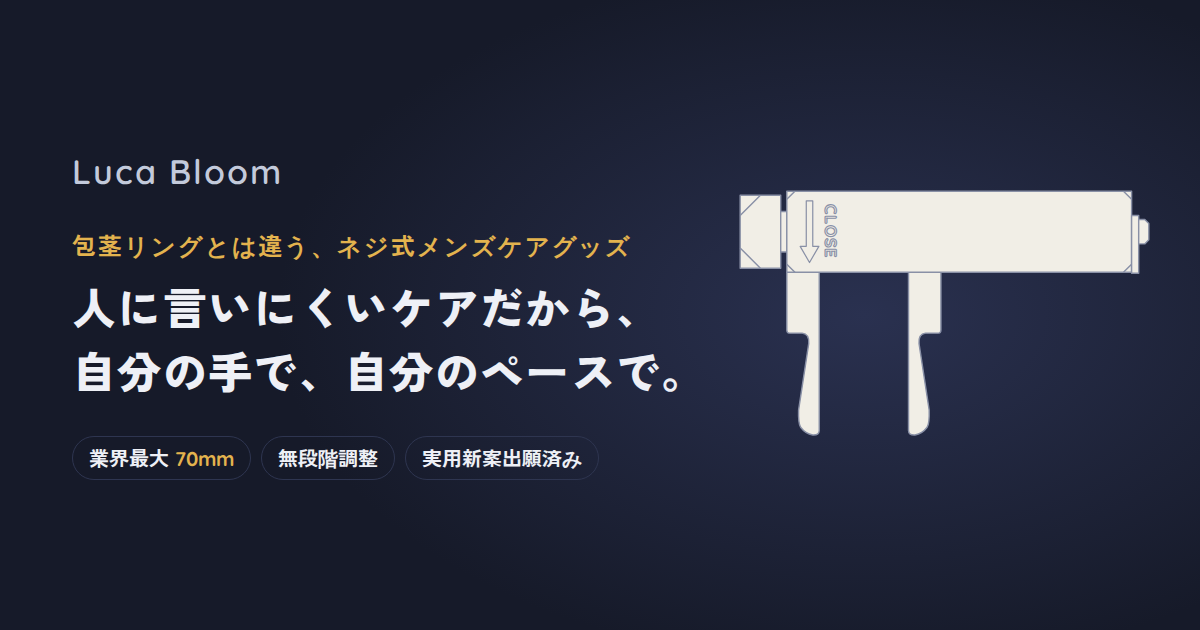
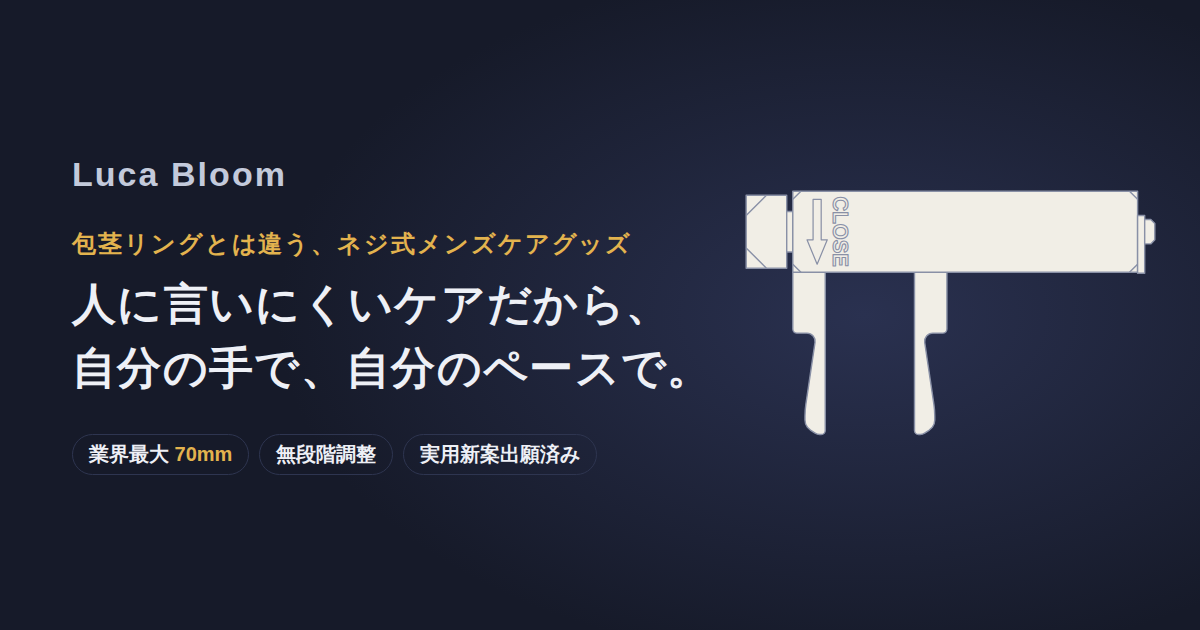
Use exact DXF geometry for arms, body cavity and engraving
Replace the traced arm outline with the arcs and lines from the drive
arm and body DXF files (R1/R2/R3/R20 transitions, 40mm below the body),
give the blade R2 outer corners, size the cavity to 78x13 and place the
CLOSE arrow and text at their drawn coordinates. Verified by overlaying
the assembly DXF front, left and top views on orthographic renders.

Claude-Session: https://claude.ai/code/session_016YenGTG3x62jvD6ZRQeA6d

diff --git a/index.html b/index.html
@@ -198,8 +198,8 @@ footer p{margin-top:8px}
 <body>
 <svg width="0" height="0" style="position:absolute" aria-hidden="true" focusable="false">
   <defs>
-    <!-- 駆動アーム／固定アームの側面形状（図面寸法・単位mm、本体下面が y=0、内側の直線面が x=0） -->
-    <path id="lb-arm" d="M0 0V39Q0 40.2 1.6 40.1Q3.4 39.8 4.6 38.2Q5.2 37.2 5.1 34L2.6 17.6Q2.4 15.2 4.2 15H7.2Q8 15 8 14.2V0Z"/>
+    <!-- 駆動アーム／固定アームの側面形状（DXF図面の輪郭線から抽出・単位mm、本体下面が y=0、内側の直線面が x=0） -->
+    <path id="lb-arm" d="M0 0V39A1 1 0 0 0 1 40H1.394A2 2 0 0 0 2.504 39.664L3.664 38.891L4.387 38.211A3 3 0 0 0 5 36.394V35.475A20 20 0 0 0 4.784 32.541L2.522 17.293A2 2 0 0 1 4.5 15H7A1 1 0 0 0 8 14V0Z"/>
     <!-- 正面図：ハンドル＋本体＋キーホール留め具（本体左上が原点） -->
     <g id="lb-body">
       <rect x="-11.5" y="1" width="10" height="18"/>
@@ -209,8 +209,8 @@ footer p{margin-top:8px}
       <path d="M0 2L2 0M83 0L85 2M85 18L83 20M2 20L0 18" fill="none"/>
       <path d="M85 6H86.75V20.25H85Z"/>
       <path d="M86.75 7H88.25L89.25 8V12L88.25 13H86.75Z"/>
-      <path d="M4.8 2.4V13.6H3.3L5.6 17.6L7.9 13.6H6.4V2.4Z" fill="none" stroke-width=".3"/>
-      <text transform="translate(9.4 3.2) rotate(90)" font-family="Quicksand,Arial,sans-serif" font-size="4" font-weight="700" fill="none" stroke-width=".28" letter-spacing=".2">CLOSE</text>
+      <path d="M5 2V12H3.5L6 18L8.5 12H7V2Z" fill="none" stroke-width=".3"/>
+      <text transform="translate(9.95 1.3) rotate(90)" font-family="Quicksand,Arial,sans-serif" font-size="5.6" font-weight="700" fill="none" stroke-width=".28" textLength="17.4" lengthAdjust="spacingAndGlyphs">CLOSE</text>
     </g>
   </defs>
 </svg>
@@ -554,7 +554,7 @@ document.addEventListener('DOMContentLoaded',function(){
 
   // ---------- 本体 85×20×20：上面に78×13の開口、底面に69×6のスリット、底板3.5 ----------
   (function(){
-    var s=new THREE.Shape(); rrect(s,-42,-9.5,84,19,0.3,false); rrect(s,-38.5,-6,77,12,1.5,true);
+    var s=new THREE.Shape(); rrect(s,-42,-9.5,84,19,0.3,false); rrect(s,-39.5,-7,79,14,1.5,true);
     add(upright(new THREE.ExtrudeGeometry(s,{depth:19,bevelEnabled:true,bevelThickness:0.5,bevelSize:0.5,bevelSegments:1,curveSegments:6}),0.5));
     var b=new THREE.Shape(); rrect(b,-39.5,-7,79,14,1,false); rrect(b,-34.5,-3,69,6,2.9,true);
     add(upright(new THREE.ExtrudeGeometry(b,{depth:3.5,bevelEnabled:false,curveSegments:8}),0));
@@ -562,13 +562,16 @@ document.addEventListener('DOMContentLoaded',function(){
 
   // ---------- 刻印「↓CLOSE」（側面2か所） ----------
   (function(){
+    // キャンバス 1mm=20px。範囲：本体左端から x 3〜15mm、下面から y 1〜19mm
     var c=document.createElement('canvas'); c.width=240; c.height=360; var g=c.getContext('2d');
+    var X=function(mm){return (mm-3)*20;}, Y=function(mm){return (19-mm)*20;};
     g.strokeStyle='#8c877b'; g.lineWidth=5; g.lineJoin='round';
-    g.beginPath(); g.moveTo(40,8); g.lineTo(40,232); g.lineTo(10,232); g.lineTo(56,318); g.lineTo(102,232); g.lineTo(72,232); g.lineTo(72,8); g.closePath(); g.stroke();
-    g.save(); g.translate(150,180); g.rotate(Math.PI/2); g.font='700 84px Quicksand, Arial, sans-serif'; g.textAlign='center'; g.textBaseline='middle';
-    g.lineWidth=5; g.strokeText('CLOSE',0,0); g.restore();
+    g.beginPath(); g.moveTo(X(5),Y(18)); g.lineTo(X(5),Y(8)); g.lineTo(X(3.5),Y(8)); g.lineTo(X(6),Y(2)); g.lineTo(X(8.5),Y(8)); g.lineTo(X(7),Y(8)); g.lineTo(X(7),Y(18)); g.closePath(); g.stroke();
+    g.save(); g.translate(X(9.95),Y(18.7)); g.rotate(Math.PI/2);
+    g.font='700 100px Quicksand, Arial, sans-serif'; g.textBaseline='alphabetic';
+    var w=g.measureText('CLOSE').width; g.scale(348/w,1); g.lineWidth=5; g.strokeText('CLOSE',0,0); g.restore();
     var mat=new THREE.MeshBasicMaterial({map:new THREE.CanvasTexture(c),transparent:true,depthWrite:false,polygonOffset:true,polygonOffsetFactor:-2});
-    var p1=new THREE.Mesh(new THREE.PlaneGeometry(12,18),mat); p1.position.set(-33.75,10,10.02); dev.add(p1);
+    var p1=new THREE.Mesh(new THREE.PlaneGeometry(12,18),mat); p1.position.set(-42.5+9,10,10.02); dev.add(p1);
     var p2=p1.clone(); p2.rotation.y=Math.PI; p2.position.z=-10.02; dev.add(p2);
   })();
 
@@ -610,11 +613,13 @@ document.addEventListener('DOMContentLoaded',function(){
   // 内側の直線面が x=0、外側へ +x。本体下面 y=0 から下へ40mm。上部15mmは幅8、段差（くぼみ）の後、
   // 幅2.5→5へ太くなる刃部（逆テーパー）、先端はR3。厚み方向(z)は6mm、先端は半径3の丸、角R1。
   function armOutline(top){
-    var P=[[0,top]], cur=[0,top];
-    function L(x,y){ P.push([x,y]); cur=[x,y]; }
-    function Q(cx,cy,x,y){ for(var i=1;i<=16;i++){ var t=i/16,a=(1-t)*(1-t),b=2*(1-t)*t,c=t*t; P.push([a*cur[0]+b*cx+c*x,a*cur[1]+b*cy+c*y]); } cur=[x,y]; }
-    L(0,-39); Q(0,-40.2,1.6,-40.1); Q(3.4,-39.8,4.6,-38.2); Q(5.2,-37.2,5.1,-34);
-    L(2.6,-17.6); Q(2.4,-15.2,4.2,-15); L(7.2,-15); Q(8,-15,8,-14.2); L(8,top);
+    // DXF（駆動アーム図 3:1、本体図 1:1）の輪郭線。内側の直線面 x=0、本体下面 y=0。
+    var P=[[0,top]];
+    function L(x,y){ P.push([x,y]); }
+    function A(cx,cy,r,a0,a1){ for(var i=1;i<=24;i++){ var t=(a0+(a1-a0)*i/24)*Math.PI/180; P.push([cx+r*Math.cos(t),cy+r*Math.sin(t)]); } }
+    L(0,-39); A(1,-39,1,180,270); L(1.394,-40); A(1.394,-38,2,270,303.7); L(3.664,-38.891); L(4.387,-38.211);
+    A(2,-36.394,3,322.7,360); L(5,-35.475); A(-15,-35.475,20,0,8.4); L(2.522,-17.293);
+    A(4.5,-17,2,188.4,90); L(7,-15); A(7,-14,1,270,360); L(8,top);
     return P;
   }
   function spanAt(P,y){
@@ -632,8 +637,8 @@ document.addEventListener('DOMContentLoaded',function(){
       var hz=3, yc=yb+3;
       if(yy<yc) hz=Math.sqrt(Math.max(0.0004,9-(yy-yc)*(yy-yc)));
       if(fillet){ if(yy>0) hz=8; else if(yy>-5) hz=8-Math.sqrt(25-(yy+5)*(yy+5)); }   // 本体との付け根 R5
-      var cx=(sp[0]+sp[1])/2, ax=Math.max(0.02,(sp[1]-sp[0])/2), r=Math.min(1,ax*0.95,hz*0.95);
-      for(var q=0;q<4;q++){ var sx=(q===0||q===3)?1:-1, sz=q<2?1:-1;
+      var cx=(sp[0]+sp[1])/2, ax=Math.max(0.02,(sp[1]-sp[0])/2), lim=Math.min(ax,hz)*0.95, rI=Math.min(1,lim), rO=Math.min(yy<-15?2:1,lim);
+      for(var q=0;q<4;q++){ var sx=(q===0||q===3)?1:-1, sz=q<2?1:-1, r=sx>0?rO:rI;
         for(var k=0;k<CK;k++){ var th=(q+k/(CK-1))*Math.PI/2;
           pos.push(dir*(cx+sx*(ax-r)+r*Math.cos(th)), yy, sz*(hz-r)+r*Math.sin(th)); } }
       center.push([dir*cx,yy]); rings++;
